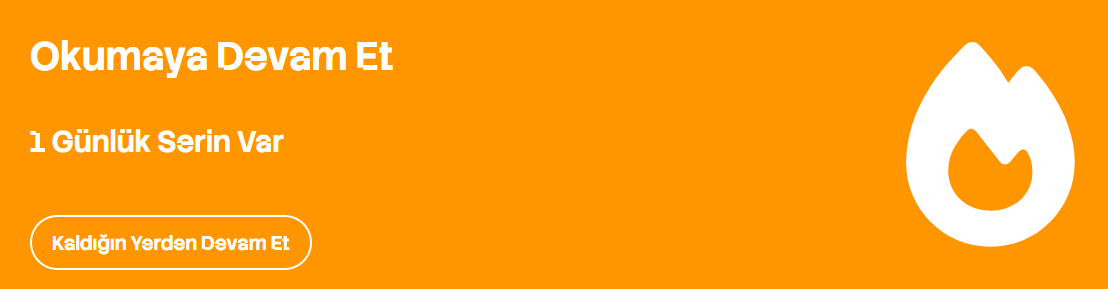
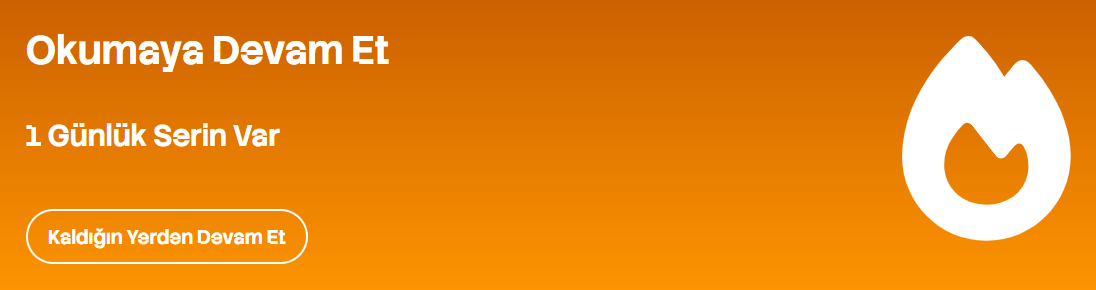
resim güncellendi

diff --git a/README.md b/README.md
@@ -13,7 +13,7 @@
 
   
 
-![](/images/streak-ss.gif)
+![](/images/streak-ss.png)
 
   
 
